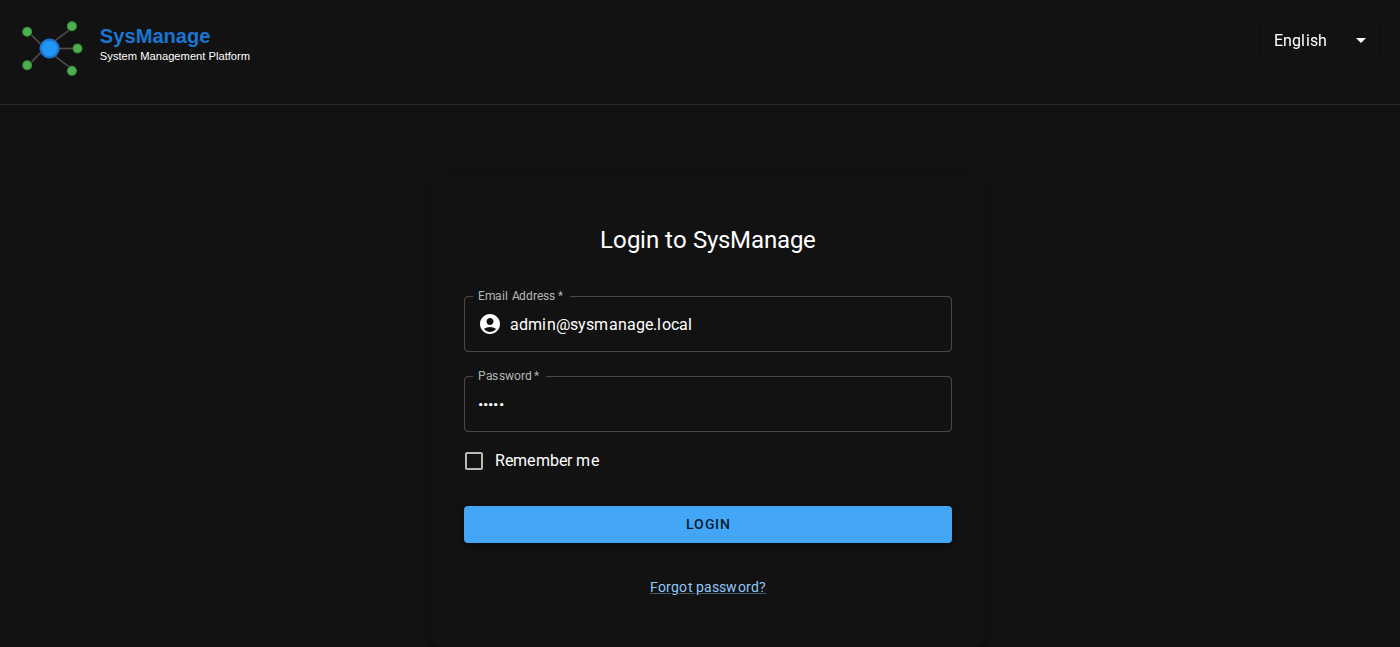
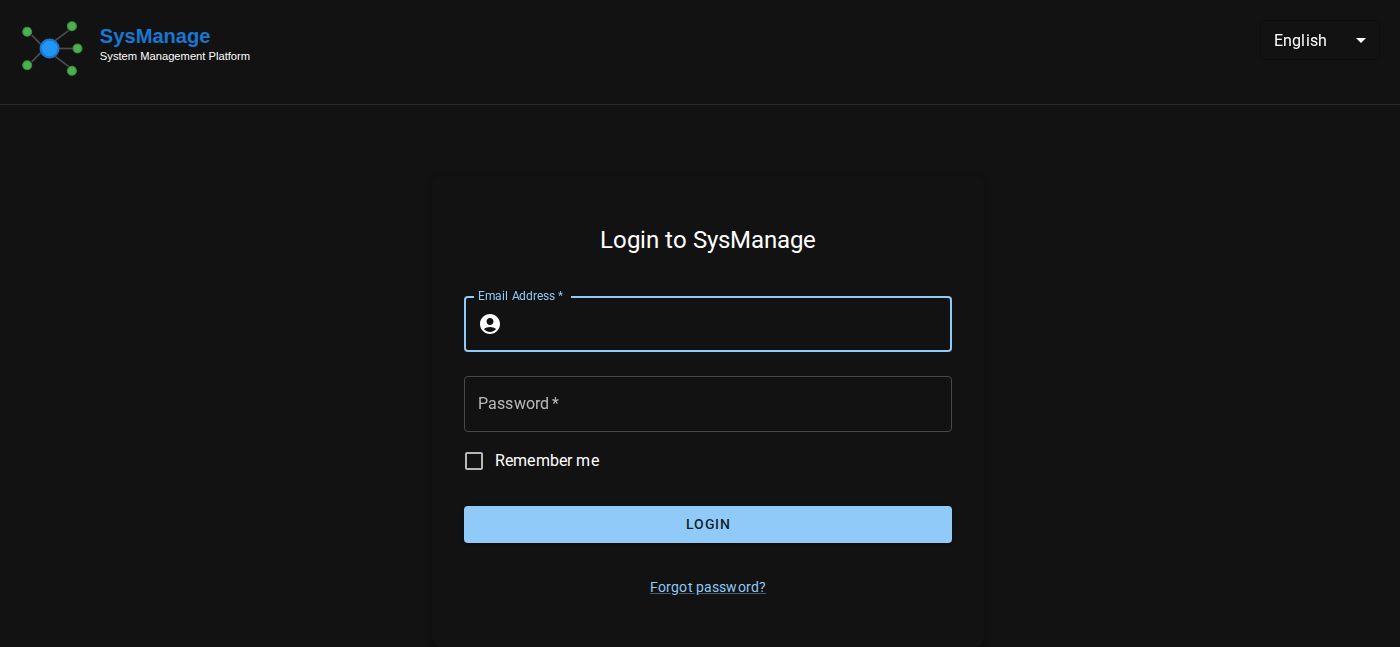
New screenshot

diff --git a/screenshot-generator.js b/screenshot-generator.js
@@ -63,33 +63,57 @@ async function generateDashboardScreenshot() {
                 );
                 console.log('🔍 Found input fields:', JSON.stringify(allInputs, null, 2));
 
-                // Fill the userid field (found via debug)
-                const useridField = await page.$('input[name="userid"]');
-                if (useridField) {
-                    await useridField.fill('admin@sysmanage.local');
-                    console.log('📧 Filled userid field');
-                } else {
-                    console.log('⚠ Could not find userid field');
+                // Try multiple credential combinations
+                const credentials = [
+                    { userid: 'admin', password: 'admin' },
+                    { userid: 'admin@sysmanage.local', password: 'admin' },
+                    { userid: 'demo', password: 'demo' },
+                    { userid: 'test', password: 'test' },
+                    { userid: 'admin', password: 'password' }
+                ];
+
+                let loginSuccess = false;
+                for (const cred of credentials) {
+                    console.log(`🔐 Trying credentials: ${cred.userid} / ${cred.password}`);
+
+                    // Fill the userid field (found via debug)
+                    const useridField = await page.$('input[name="userid"]');
+                    if (useridField) {
+                        await useridField.selectAll();
+                        await useridField.fill(cred.userid);
+                        console.log('📧 Filled userid field');
+                    }
+
+                    // Fill the password field (found via debug)
+                    const passwordField = await page.$('input[name="password"]');
+                    if (passwordField) {
+                        await passwordField.selectAll();
+                        await passwordField.fill(cred.password);
+                        console.log('🔑 Filled password field');
+                    }
+
+                    // Click login button
+                    const loginButton = await page.$('button[type="submit"], .login-button, .btn-primary, button:has-text("Login"), button:has-text("Sign in"), button:has-text("Enter")');
+                    if (loginButton) {
+                        await loginButton.click();
+                        console.log('🖱 Clicked login button');
+                    }
+
+                    // Wait and check if login succeeded
+                    await page.waitForTimeout(3000);
+                    const stillOnLoginPage = await page.$('input[type="password"]');
+                    if (!stillOnLoginPage) {
+                        console.log('✅ Login successful!');
+                        loginSuccess = true;
+                        break;
+                    } else {
+                        console.log('❌ Login failed, trying next credentials...');
+                    }
                 }
 
-                // Fill the password field (found via debug)
-                const passwordField = await page.$('input[name="password"]');
-                if (passwordField) {
-                    await passwordField.fill('admin');
-                    console.log('🔑 Filled password field');
-                } else {
-                    console.log('⚠ Could not find password field');
+                if (!loginSuccess) {
+                    console.log('⚠ All login attempts failed');
                 }
-
-                // Try to find and click login button
-                const loginButton = await page.$('button[type="submit"], .login-button, .btn-primary, button:has-text("Login"), button:has-text("Sign in"), button:has-text("Enter")');
-                if (loginButton) {
-                    await loginButton.click();
-                    console.log('🖱 Clicked login button');
-                }
-
-                // Wait for navigation away from login page
-                await page.waitForTimeout(2000);
 
                 // Wait for dashboard elements to appear (not login elements)
                 try {
@@ -99,13 +123,67 @@ async function generateDashboardScreenshot() {
                         return !loginForm;
                     }, { timeout: 10000 });
                     console.log('✅ Successfully navigated away from login page');
+
+                    // Navigate to host details view
+                    console.log('🔍 Looking for hosts or navigation...');
+
+                    // Give time for dashboard to load
+                    await page.waitForTimeout(3000);
+
+                    // Look for hosts navigation or host entries
+                    const hostSelectors = [
+                        'a[href*="host"]',
+                        'button:has-text("Hosts")',
+                        '.host-item',
+                        '.MuiTableRow-root',
+                        'tr[role="row"]',
+                        '[data-testid*="host"]'
+                    ];
+
+                    let hostFound = false;
+                    for (const selector of hostSelectors) {
+                        const hostElement = await page.$(selector);
+                        if (hostElement) {
+                            console.log(`🎯 Found host element: ${selector}`);
+                            await hostElement.click();
+                            hostFound = true;
+                            break;
+                        }
+                    }
+
+                    if (hostFound) {
+                        console.log('🖱 Clicked on host element');
+                        await page.waitForTimeout(2000);
+
+                        // Look for Info tab
+                        const infoSelectors = [
+                            'button:has-text("Info")',
+                            'tab:has-text("Info")',
+                            '.MuiTab-root:has-text("Info")',
+                            '[role="tab"]:has-text("Info")'
+                        ];
+
+                        for (const selector of infoSelectors) {
+                            const infoTab = await page.$(selector);
+                            if (infoTab) {
+                                console.log(`📋 Found Info tab: ${selector}`);
+                                await infoTab.click();
+                                console.log('🖱 Clicked Info tab');
+                                await page.waitForTimeout(2000);
+                                break;
+                            }
+                        }
+                    } else {
+                        console.log('⚠ No host elements found, staying on current page');
+                    }
+
                 } catch (navError) {
                     console.log('⚠ Still on login page or navigation timeout');
                 }
 
-                // Give extra time for dashboard to fully load
+                // Give extra time for content to fully load
                 await page.waitForTimeout(3000);
-                console.log('✅ Login attempt completed!');
+                console.log('✅ Navigation attempt completed!');
             } catch (loginError) {
                 console.log('⚠ Login failed or not needed:', loginError.message);
             }

diff --git a/add_test_user.py b/add_test_user.py
@@ -1,0 +1,101 @@
+#!/usr/bin/env python3
+"""
+Add a test user to the SysManage database for screenshot purposes
+"""
+
+import sys
+import os
+import sqlite3
+from datetime import datetime, timezone
+from argon2 import PasswordHasher
+
+# Add the backend to the Python path so we can import the models
+sys.path.append('/home/bceverly/dev/sysmanage/backend')
+
+def add_test_user():
+    """Add a test user to the database"""
+
+    # Database configuration from /etc/sysmanage.yaml
+    db_path = '/home/bceverly/dev/sysmanage/sysmanage.db'
+
+    # User details
+    userid = 'admin@sysmanage.local'
+    password = 'AdminPassword123!'  # Meets policy: uppercase, lowercase, number, special char
+    first_name = 'System'
+    last_name = 'Administrator'
+
+    # Hash the password using Argon2 (same as backend)
+    argon2_hasher = PasswordHasher()
+    hashed_password = argon2_hasher.hash(password)
+
+    print(f"Creating user: {userid}")
+    print(f"Password: {password}")
+    print(f"Hashed password: {hashed_password[:50]}...")
+
+    try:
+        # Connect to SQLite database
+        conn = sqlite3.connect(db_path)
+        cursor = conn.cursor()
+
+        # Check if user already exists
+        cursor.execute("SELECT id FROM users WHERE userid = ?", (userid,))
+        existing = cursor.fetchone()
+
+        if existing:
+            print(f"User {userid} already exists, updating password...")
+            cursor.execute("""
+                UPDATE users
+                SET hashed_password = ?,
+                    last_access = ?,
+                    is_locked = 0,
+                    failed_login_attempts = 0
+                WHERE userid = ?
+            """, (hashed_password, datetime.now(timezone.utc).isoformat(), userid))
+        else:
+            print(f"Creating new user {userid}...")
+            cursor.execute("""
+                INSERT INTO users
+                (userid, active, first_name, last_name, hashed_password, last_access, is_locked, failed_login_attempts)
+                VALUES (?, ?, ?, ?, ?, ?, ?, ?)
+            """, (
+                userid,
+                True,  # active
+                first_name,
+                last_name,
+                hashed_password,
+                datetime.now(timezone.utc).isoformat(),
+                False,  # is_locked
+                0  # failed_login_attempts
+            ))
+
+        conn.commit()
+        print("✅ User created/updated successfully!")
+
+        # Verify the user was created
+        cursor.execute("SELECT userid, active, first_name, last_name FROM users WHERE userid = ?", (userid,))
+        user = cursor.fetchone()
+        if user:
+            print(f"✅ Verified user in database: {user}")
+        else:
+            print("❌ Failed to verify user creation")
+
+    except Exception as e:
+        print(f"❌ Error: {e}")
+        return False
+    finally:
+        if 'conn' in locals():
+            conn.close()
+
+    return True
+
+if __name__ == "__main__":
+    print("Adding test user to SysManage database...")
+    success = add_test_user()
+    if success:
+        print("\n🎉 Test user added successfully!")
+        print("You can now login with:")
+        print("  Email: admin@sysmanage.local")
+        print("  Password: AdminPassword123!")
+    else:
+        print("\n❌ Failed to add test user")
+        sys.exit(1)
